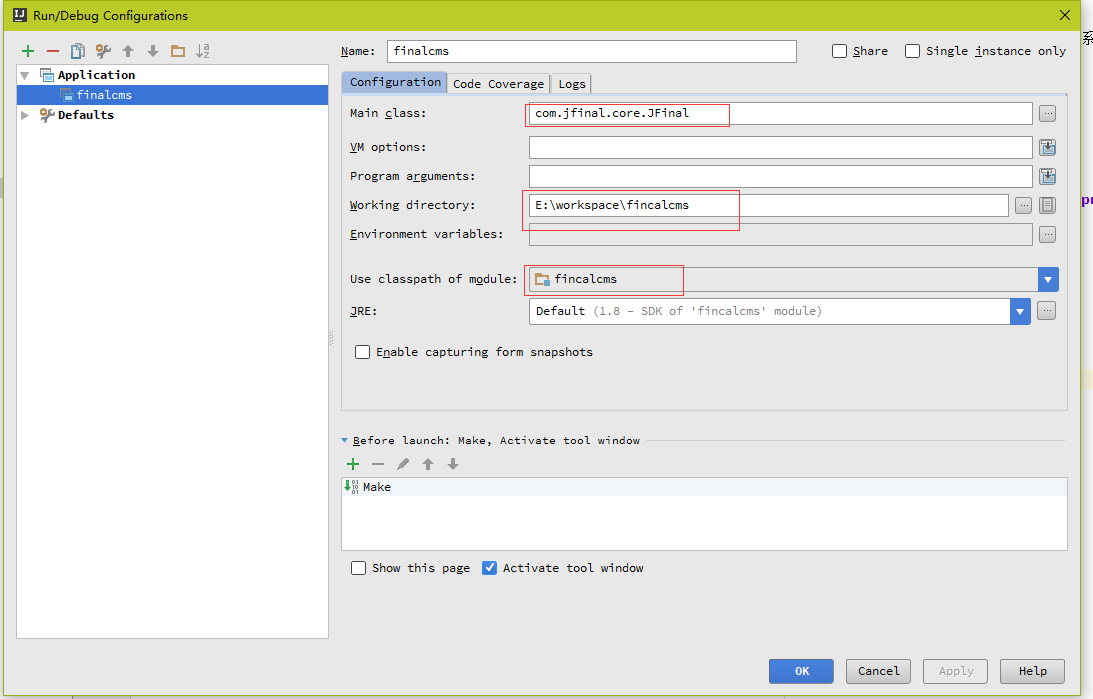
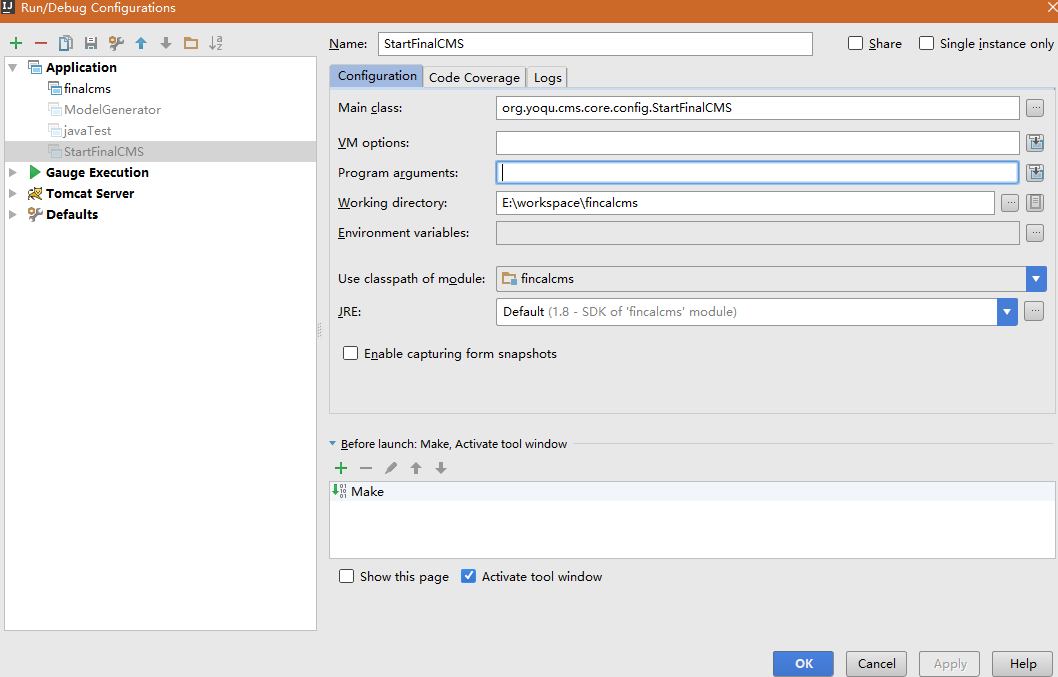
修改配置文件和readme

diff --git a/src/org/yoqu/cms/core/config/StartFinalCms.java b/src/org/yoqu/cms/core/config/StartFinalCms.java
@@ -1,0 +1,29 @@
+package org.yoqu.cms.core.config;
+
+import com.jfinal.core.JFinal;
+import com.jfinal.kit.PathKit;
+import com.jfinal.server.ServerFactory;
+
+/**
+ * Created by yoqu on 2016/4/21 0021.
+ */
+public class StartFinalCMS {
+    private static int START_PORT = 80;//项目启动端口
+
+    //项目启动
+    public static void main(String[] args) {
+        JFinal.start(detectWebAppDir(), START_PORT, "/", 5);
+    }
+
+    private static String detectWebAppDir() {
+        String rootClassPath = PathKit.getRootClassPath();
+        String[] temp = null;
+        if (rootClassPath.indexOf("\\WEB-INF\\") != -1)
+            temp = rootClassPath.split("\\\\");
+        else if (rootClassPath.indexOf("/WEB-INF/") != -1)
+            temp = rootClassPath.split("/");
+        else
+            throw new RuntimeException("WEB-INF directory not found.");
+        return temp[temp.length - 3];
+    }
+}

diff --git a/src/org/yoqu/cms/core/admincontroller/PeopleController.java b/src/org/yoqu/cms/core/admincontroller/PeopleController.java
@@ -2,6 +2,7 @@ package org.yoqu.cms.core.admincontroller;
 
 import com.jfinal.aop.Before;
 import com.jfinal.core.Controller;
+import com.jfinal.core.JFinal;
 import com.jfinal.ext.interceptor.POST;
 import com.jfinal.plugin.activerecord.Page;
 import org.yoqu.cms.core.intercepter.AuthManager;
@@ -21,7 +22,6 @@ public class PeopleController extends Controller {
     public void index() {
         int page = getPara("page") != null ? Integer.parseInt(getPara("page")) : 1;
         Page<User> users = User.dao.findUserByPage(page);
-
         setAttr("userList", users);
         render("/admin/people/people.html");
     }

diff --git a/README.md b/README.md
@@ -22,18 +22,22 @@
 ![选项卡设置](https://raw.githubusercontent.com/yoqu/finalcms/master/docs/pictrues/menu_editconfiruration.png)
 4. 设置标红地方的参数
 ![runConfiguration](https://raw.githubusercontent.com/yoqu/finalcms/master/docs/pictrues/runConfiguration.png)
+>启动类为 __org.yoqu.cms.core.config.StartFinalCMS__
 
 #### 导入数据到数据库
 1. 项目中docs目录包含finalcms.sql文件，将其导入你的数据库中，数据库使用的是mysql。
 2. 在res目录的database_config.txt文件中配置数据库链接信息
 
-#### last
+#### 最后
 * 快捷键shift + F10运行项目.
 * 浏览器输入localhost即可访问.
 
 ##FAQ
-* **问**：数据库字段修改如何同步到项目中
-* **答**：运行核心util包中的ModelGenerator类重新生成（不推荐用户改动系统核心包）
+>* **问**：数据库字段修改如何同步到项目中
+ * **答**：运行核心util包中的ModelGenerator类重新生成（不推荐用户改动系统核心包）
+*********
+* **问**：运行项目显示80端口被占用.
+* **答**：1.关闭占用80端口的应用程序 2.在核心包的config包下StartFinalCMS类中修改START_PORT修改为你想要的启动端口
 
 ##关于
 项目发起者: _yoqu_
